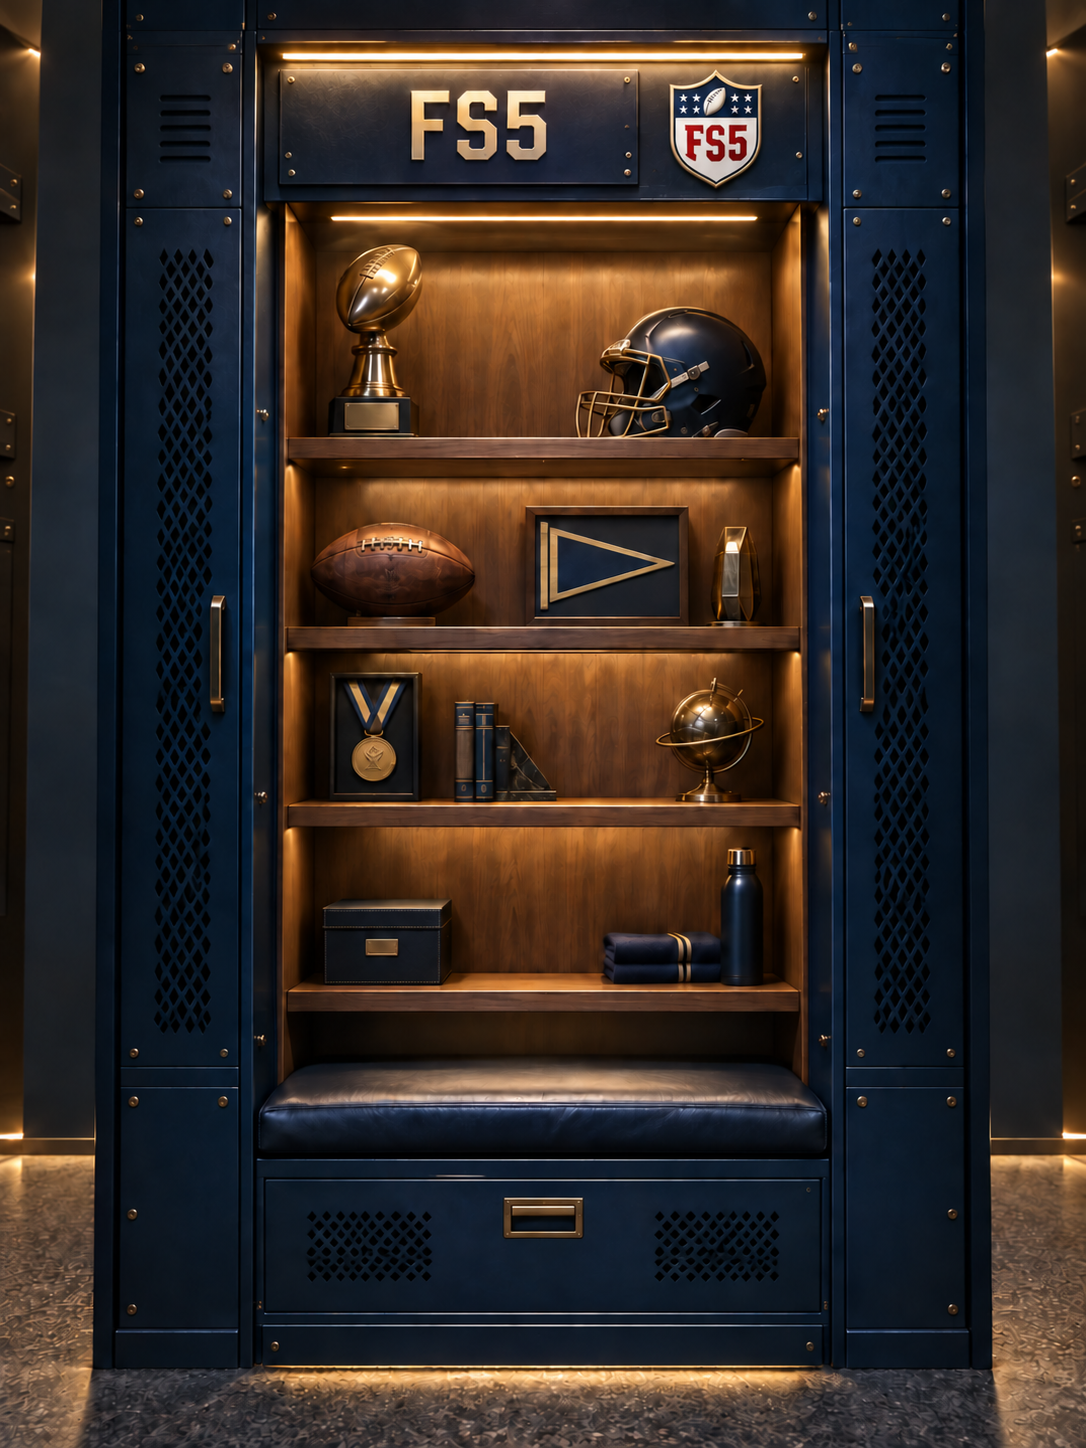
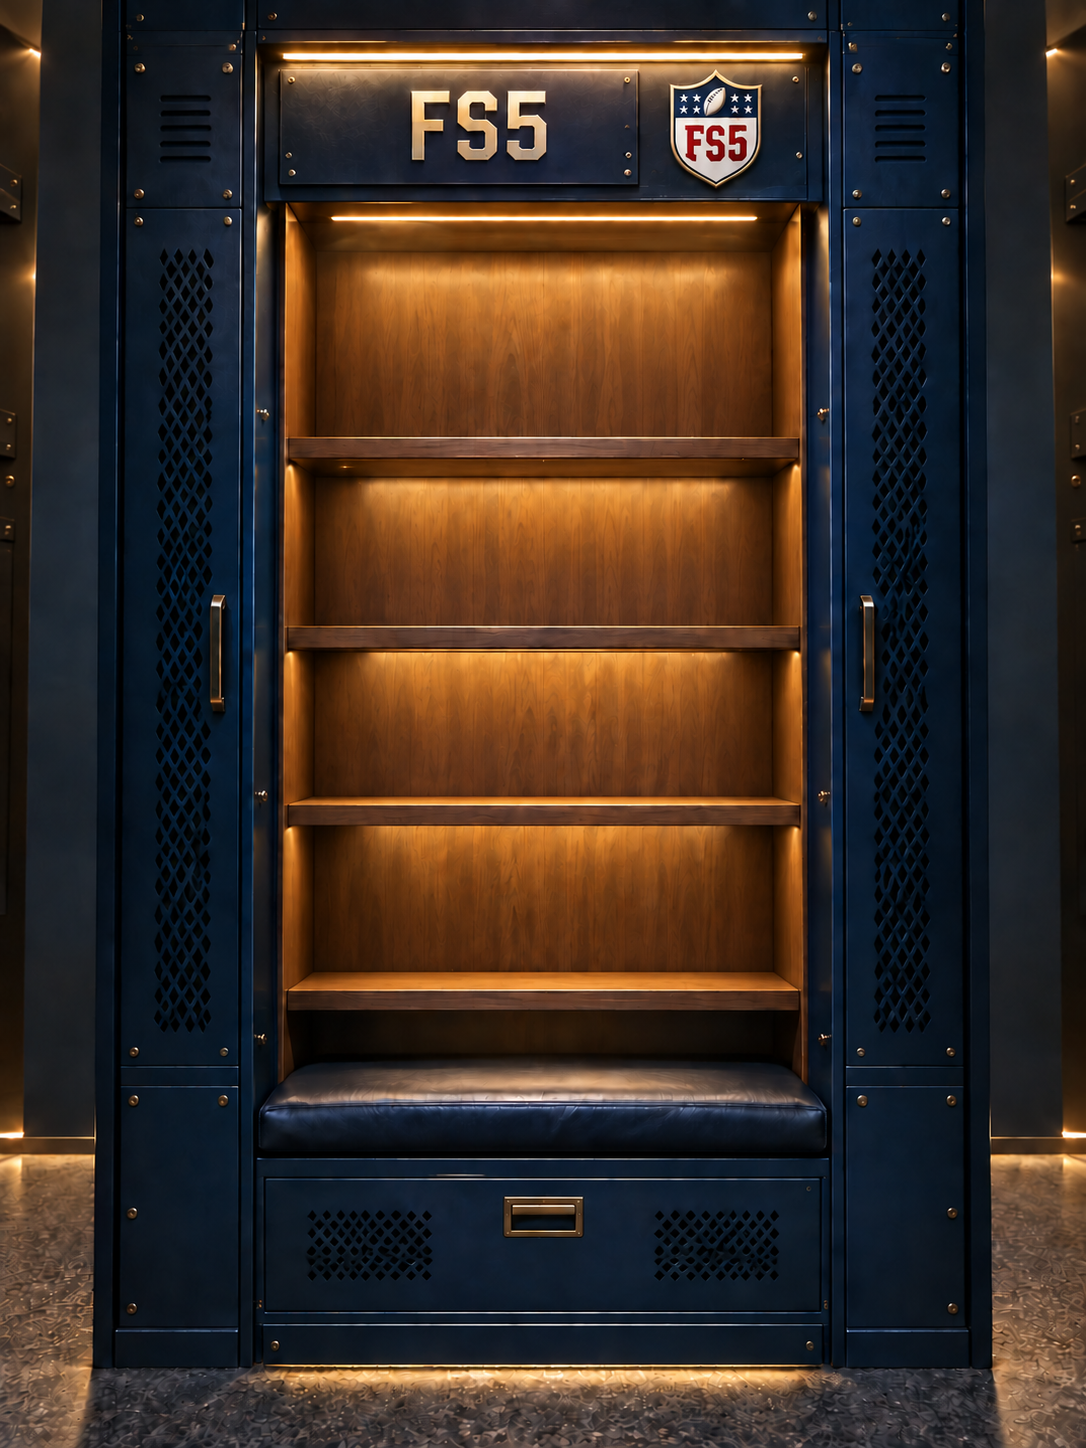
Use empty dynamic locker template

diff --git a/owners/ownerstyle.css b/owners/ownerstyle.css
@@ -3597,12 +3597,12 @@ body.owners-dark .row3 > .game-records-container.team-game-records .game-records
 .owner-locker__stadium-light,
 .owner-locker__locker-header,
 .owner-locker__floor { display:none; }
-.owner-locker__shelves { z-index:2; min-height:589px; gap:14px; grid-template-rows:repeat(4, minmax(130px, 1fr)); }
-.owner-locker__shelf { overflow:visible; padding:4px 6px 14px; border:0; border-radius:0; background:transparent; box-shadow:none; }
+.owner-locker__shelves { z-index:2; min-height:492px; gap:0; grid-template-rows:132px 120px 120px 120px; }
+.owner-locker__shelf { overflow:visible; padding:0 6px; border:0; border-radius:0; background:transparent; box-shadow:none; }
 .owner-locker__shelf::before,
 .owner-locker__shelf::after,
 .owner-locker__shelf-items::after { display:none; }
-.owner-locker__shelf-items { min-height:112px; padding:0 2px 10px; gap:7px; background:transparent; box-shadow:none; }
+.owner-locker__shelf-items { min-height:0; height:100%; padding:0 2px; gap:7px; background:transparent; box-shadow:none; }
 .locker-collectible { filter:drop-shadow(0 11px 7px rgba(0,0,0,.74)); }
 .locker-object img { transform:translateY(4px); filter:drop-shadow(0 10px 6px rgba(0,0,0,.78)); }
 .locker-collectible:hover,
@@ -3610,9 +3610,9 @@ body.owners-dark .row3 > .game-records-container.team-game-records .game-records
 
 @media (max-width:765px) {
     .owner-locker__cabinet { min-height:650px; padding:103px 54px 131px; }
-    .owner-locker__shelves { min-height:416px; gap:9px; grid-template-rows:repeat(4, minmax(92px, 1fr)); }
-    .owner-locker__shelf { padding:2px 1px 9px; }
-    .owner-locker__shelf-items { min-height:78px; padding:0 0 7px; gap:2px; }
+    .owner-locker__shelves { min-height:342px; gap:0; grid-template-rows:93px 85px 80px 85px; }
+    .owner-locker__shelf { padding:0 1px; }
+    .owner-locker__shelf-items { min-height:0; height:100%; padding:0; gap:2px; }
     .locker-object img { transform:translateY(2px); filter:drop-shadow(0 6px 4px rgba(0,0,0,.76)); }
 }
 

diff --git a/owners/index.html b/owners/index.html
@@ -6,7 +6,7 @@
     <link rel="apple-touch-icon" sizes="180x180" href="/artwork/fs5-ios-icon.png">
     <link rel="manifest" href="/site.webmanifest">
     <title>FastStrongFive Fantasy Football League</title>
-    <link rel="stylesheet" href="ownerstyle.css?v=fs5-3d-locker-20260918">
+    <link rel="stylesheet" href="ownerstyle.css?v=fs5-empty-locker-template-20260918">
     <link rel="stylesheet" href="../common.css">
     <script src="https://cdn.jsdelivr.net/npm/@supabase/supabase-js@2"></script>
     <script src="../supabase-config.js"></script>
